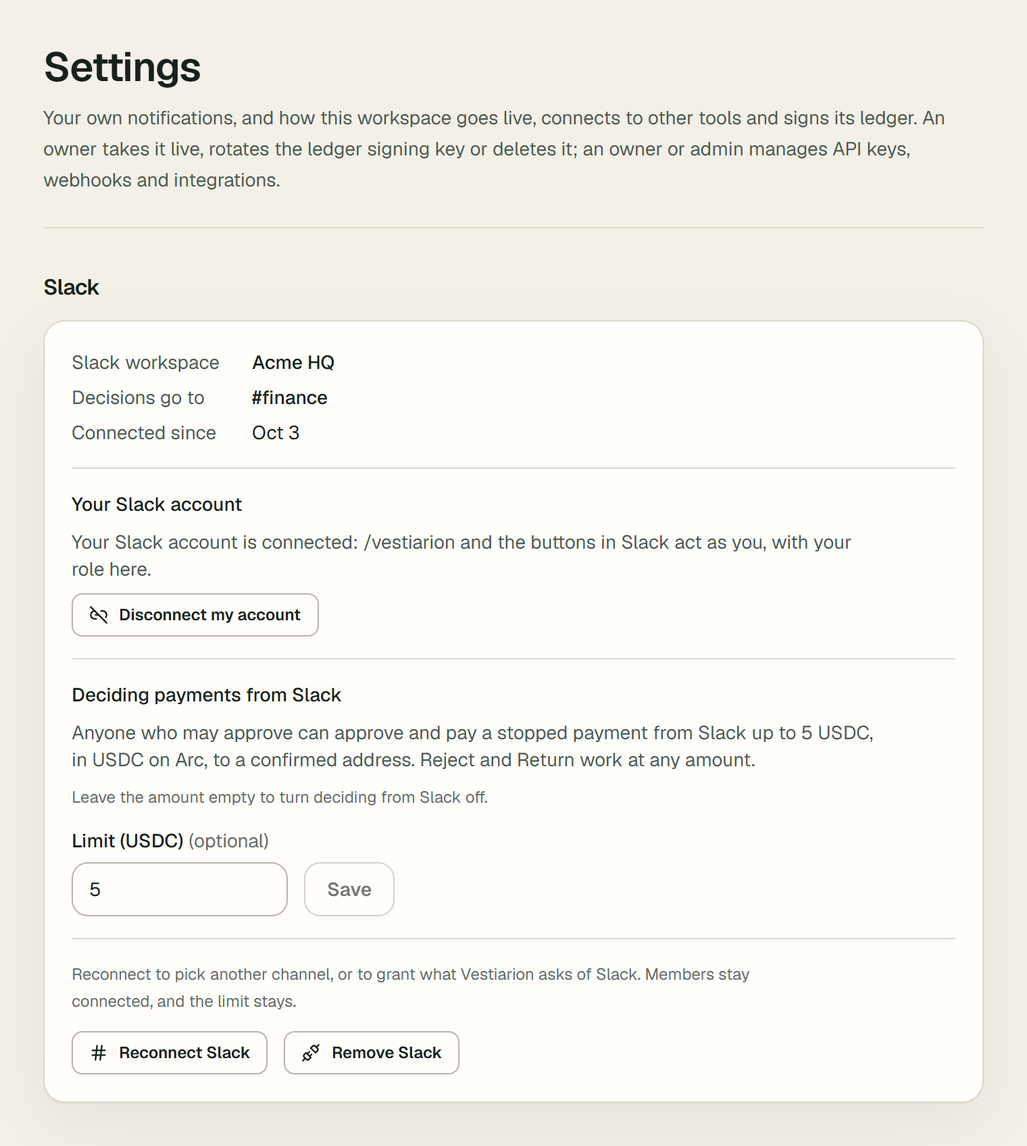
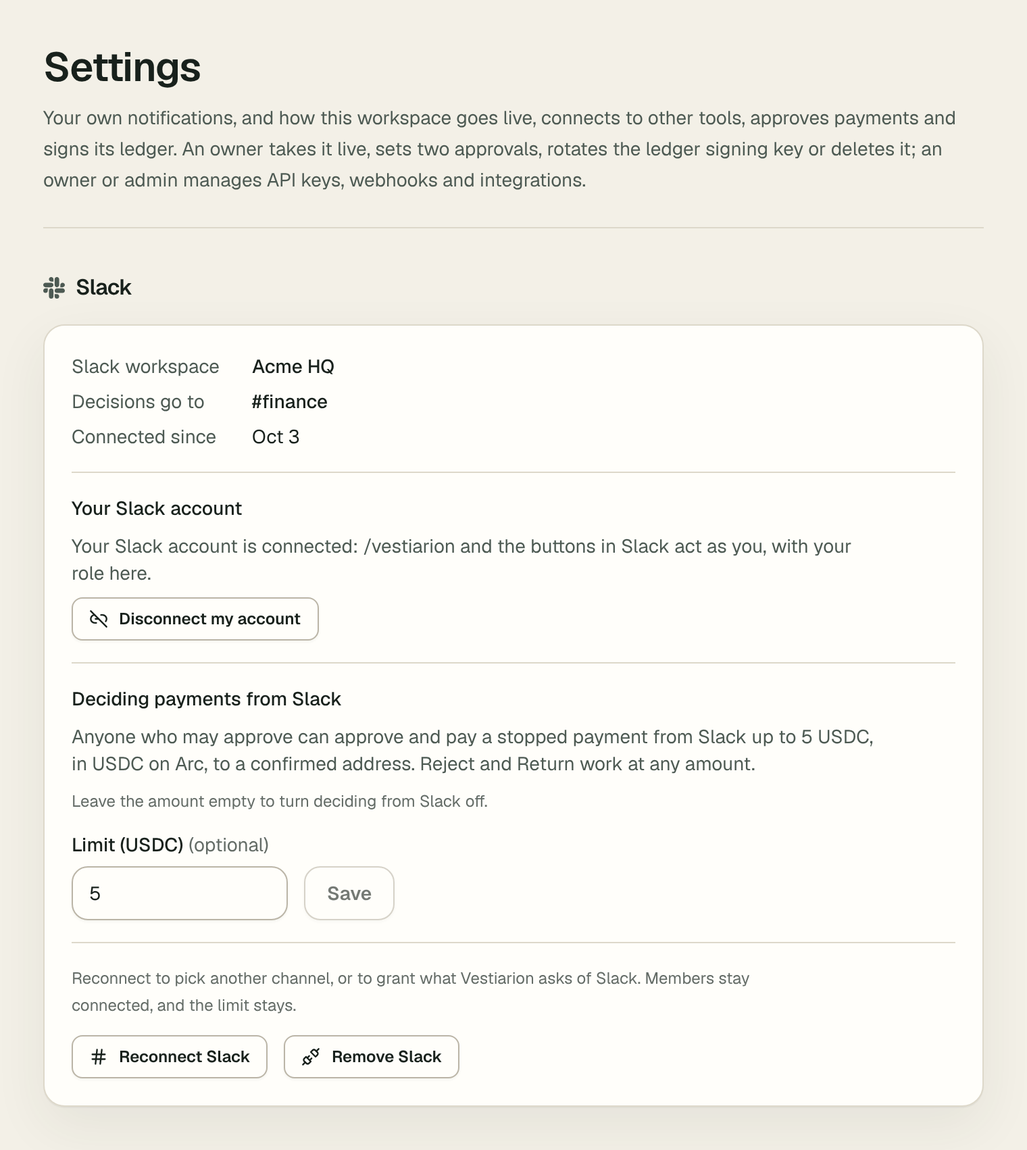
Show the marks of the services Vestiarion is built on and works with
A visitor recognises Arc, Slack or Telegram faster by its mark, and a
member finds the right card in Settings faster. Each mark stands only
for an integration the code has, and never for an endorsement
(docs/superpowers/specs/2026-10-07-brand-marks-design.md):

- BrandMark draws Arc's, Slack's, Telegram's and npm's marks in one
  ink (currentColor), hidden from assistive technology, beside the
  brand's written name. Arc's symbol is traced from its published PNG
  logo; the others are their published SVG paths. Gmail has no mark:
  the invoice inbox is reached by forwarding, not a Gmail integration.
  Circle shows as its name until its official mark is added.
- The landing page gets "Built on, and works with" under "Verifiable,
  not vouched for", each service linking to its evidence.
- Settings' Slack heading and Telegram card, and each network's name
  on /open, carry the mark.
- The Slack and Telegram guide screenshots are re-photographed.

Claude-Session: https://claude.ai/code/session_0113dEjh3HF2r3tSXjaQTtQy

diff --git a/src/components/vx/BrandMarks.tsx b/src/components/vx/BrandMarks.tsx
@@ -1,0 +1,51 @@
+/**
+ * The marks of the services Vestiarion is built on or connects to, drawn in one
+ * colour (`currentColor`) so they sit quietly in the page's ink, in either
+ * theme. A mark is decoration beside its name, never instead of it, so it is
+ * hidden from assistive technology; whatever renders it writes the name.
+ *
+ * Only services the code integrates with have a mark here
+ * (docs/superpowers/specs/2026-10-07-brand-marks-design.md):
+ * Arc, where payments settle; Slack and Telegram, where the agent asks and
+ * reports; npm, where the SDK is published. Circle routes the payments too, and
+ * shows as its name until its official mark is added. Each mark keeps its
+ * owner's shape unaltered; the Arc symbol is traced from Arc's published logo.
+ */
+
+export type Brand = "arc" | "slack" | "telegram" | "npm";
+
+const MARKS: Record<Brand, { name: string; viewBox: string; d: string; wordmark?: true }> = {
+  arc: {
+    name: "Arc",
+    viewBox: "0 0 95.3 100",
+    d: "M 42.9 0.2 C 42.6 0.5 42 0.8 41 0.9 C 40.4 1 39.8 1.2 39.5 1.3 C 39.3 1.4 38.7 1.7 38.2 1.8 C 37.7 2 37.1 2.3 36.9 2.5 C 36.7 2.6 36.3 2.8 35.9 3 C 35.6 3.1 35.1 3.3 34.9 3.4 C 34.7 3.6 34.4 3.8 34.1 3.9 C 33.9 4 33.5 4.3 33.2 4.6 C 32.9 4.8 32.5 5 32.5 5 C 32.4 5 32.2 5.1 32 5.3 C 31.8 5.5 31.5 5.8 31.2 6 C 30.1 6.7 27.4 9.1 26.5 10.1 C 26.2 10.5 25.5 11.3 24.9 12 C 24.4 12.6 23.7 13.4 23.4 13.7 C 23.2 14.1 22.7 14.7 22.4 15 C 22.1 15.4 21.9 15.7 21.9 15.8 C 21.9 15.9 21.1 17.1 20.4 17.8 C 20.3 18 20 18.4 19.9 18.7 C 19.8 18.9 19.6 19.3 19.4 19.5 C 19.3 19.7 19 20.1 18.9 20.3 C 18.8 20.6 18.6 21 18.3 21.3 C 17.7 22.2 17.2 23 17 23.7 C 16.9 24 16.6 24.5 16.5 24.7 C 16.3 24.9 16.1 25.3 16 25.7 C 15.8 26 15.6 26.5 15.5 26.7 C 15.3 26.9 15.1 27.3 15 27.7 C 14.9 28 14.6 28.4 14.5 28.7 C 14.3 28.9 14.1 29.4 14 29.8 C 13.9 30.2 13.6 30.7 13.5 31 C 13.3 31.3 13.1 31.7 13 32 C 12.9 32.3 12.7 32.8 12.5 33.1 C 12.3 33.4 12.1 33.9 12.1 34.2 C 12 34.5 11.8 35.1 11.5 35.6 C 11.3 36.1 11 36.9 10.9 37.4 C 10.8 37.9 10.5 38.6 10.4 38.8 C 10.2 39 10 39.6 9.9 40.1 C 9.8 40.7 9.6 41.3 9.4 41.6 C 9.3 41.8 9 42.6 8.9 43.1 C 8.8 43.7 8.6 44.5 8.4 44.8 C 8.2 45.1 8 45.8 7.9 46.4 C 7.8 46.9 7.6 47.6 7.4 48 C 7.3 48.4 7.1 49.2 6.9 49.9 C 6.8 50.6 6.6 51.4 6.5 51.7 C 6.3 51.9 6.1 52.8 6 53.6 C 5.9 54.3 5.6 55.4 5.4 55.9 C 5.3 56.4 5 57.4 4.9 58.2 C 4.8 58.9 4.6 59.9 4.5 60.2 C 4.3 60.6 4.1 61.8 4 62.8 C 3.8 63.8 3.6 65.1 3.4 65.6 C 3.3 66.1 3.1 66.7 3.1 66.9 C 3.1 67.7 2.8 70.3 2.5 71.5 C 2.2 72.7 2.1 73.6 1.9 75.9 C 1.8 76.8 1.6 78.1 1.5 78.9 C 1.4 79.8 1.2 81.3 1.1 82.2 C 0.8 87.7 0.5 89.8 0.2 90.6 C 0 90.9 0 91.9 0 95.5 L 0 100 8.9 100 L 17.8 100 17.8 99.6 C 17.8 95.8 18.3 87.9 18.6 85.6 C 18.7 84.7 18.9 83.4 18.9 82.8 C 19.2 79.5 19.3 78.3 19.5 77.4 C 19.6 76.9 19.8 75.6 19.9 74.6 C 20.2 72.3 20.3 71.4 20.6 70.4 C 20.7 70 20.9 69.2 20.9 68.6 C 21 67.9 21.2 66.7 21.5 65.8 C 21.7 64.8 21.9 63.6 22 63.1 C 22.1 62 22.4 61 22.7 60 C 22.8 59.7 22.9 59.1 23 58.6 C 23.1 58.1 23.3 57.1 23.6 56.3 C 23.8 55.6 24 54.6 24.1 54.2 C 24.2 53.8 24.4 53.3 24.5 52.9 C 24.7 52.6 24.9 51.8 25 51.1 C 25.1 50.5 25.4 49.6 25.6 49.1 C 25.8 48.7 26 48.1 26.1 47.8 C 26.1 47.4 26.3 46.7 26.6 46.2 C 26.8 45.6 27.1 44.9 27.1 44.5 C 27.2 44.1 27.4 43.6 27.6 43.3 C 27.7 43 27.9 42.5 28 42.1 C 28.1 41.7 28.3 41.2 28.5 40.9 C 28.7 40.5 28.9 40 29 39.7 C 29 39.3 29.2 38.9 29.4 38.5 C 29.7 38.2 29.9 37.6 30 37.2 C 30.1 36.8 30.4 36.3 30.5 36.1 C 30.7 35.9 30.9 35.5 31 35.2 C 31.2 34.5 32.3 32.3 32.5 32.2 C 32.6 32.1 32.8 31.7 33.1 31.3 C 33.9 29.5 34.4 28.7 34.7 28.4 C 34.9 28.2 35 27.9 35 27.8 C 35 27.7 35.3 27.3 35.6 27 C 35.9 26.7 36.1 26.3 36.1 26.2 C 36.1 26.1 36.5 25.6 37.1 24.9 C 37.6 24.3 38 23.8 38 23.7 C 38 23.6 38.8 22.8 39.7 21.9 C 41.2 20.4 42.1 19.7 43.2 19.1 C 43.5 18.9 43.9 18.7 44.1 18.5 C 45.5 17.5 50.2 17.6 51.3 18.6 C 51.4 18.7 51.8 18.9 52.1 19 C 52.3 19.1 52.7 19.3 52.9 19.5 C 53 19.7 53.4 20 53.7 20.1 C 54.3 20.4 56.4 22.4 57.1 23.4 C 57.4 23.8 57.9 24.4 58.2 24.8 C 58.5 25.1 59 25.7 59.2 26 C 59.6 26.7 60 27.3 60.4 27.8 C 60.7 28.2 61.1 28.9 61.9 30.4 C 62.1 30.7 62.4 31.2 62.6 31.4 C 62.7 31.6 62.9 32 63 32.2 C 63.1 32.5 63.3 32.9 63.5 33.1 C 63.6 33.3 63.8 33.7 64 34.1 C 64.1 34.4 64.3 34.9 64.5 35.2 C 64.7 35.4 64.9 35.9 65 36.3 C 65.1 36.6 65.3 37.1 65.4 37.4 C 65.6 37.6 65.8 38.1 65.9 38.5 C 66.1 38.9 66.3 39.4 66.5 39.6 C 66.6 39.9 66.8 40.4 66.9 40.9 C 67 41.3 67.3 42 67.5 42.3 C 67.7 42.7 67.9 43.3 67.9 43.5 C 68 43.7 68.2 44.2 68.4 44.6 C 68.6 45 68.8 45.7 68.9 46.2 C 69 46.7 69.3 47.4 69.4 47.7 C 69.6 48.1 69.8 48.7 69.9 49.1 C 70 49.6 70.2 50.4 70.4 51.1 C 70.7 51.7 71 52.8 71.1 53.4 C 71.2 53.9 71.4 54.7 71.5 55 C 71.6 55.3 71.9 56.1 72 56.8 C 72.1 57.5 72.3 58.4 72.5 58.7 C 72.6 59.1 72.8 60 72.9 60.7 C 73 61.4 73.3 62.5 73.5 63.2 C 73.7 63.9 73.9 64.9 73.9 65.4 C 74 66.3 74.4 68.2 74.7 69.1 C 75 70 75.1 72.1 74.8 72.4 C 74.5 72.7 74.2 72.7 73.6 72.4 C 73.3 72.2 72.7 72.1 72 72 C 70.2 71.8 69.4 71.6 68.7 71.4 C 68.3 71.3 67.6 71.1 67 71.1 C 65.4 71 63.6 70.8 62.7 70.6 C 60.1 70.1 55.2 69.8 47.6 69.7 C 40.7 69.6 41.1 69.4 40.9 71.9 C 40.9 72.5 40.7 73.6 40.6 74.3 C 40.3 75.6 40.1 76.7 39.9 79.8 C 39.8 80.8 39.7 81.9 39.6 82.4 C 39.3 83.7 39 86.3 39.1 86.6 C 39.2 87.2 39.7 87.2 44.6 86.7 C 49.3 86.2 52.9 86.2 57.1 86.6 C 57.7 86.7 58.9 86.8 59.8 86.9 C 62.8 87.1 64.3 87.3 64.9 87.4 C 66.2 87.8 67.1 88 68.2 88.1 C 68.8 88.2 69.7 88.4 70.1 88.5 C 70.6 88.7 71.4 88.9 72.1 89.1 C 72.7 89.2 73.5 89.4 73.9 89.6 C 74.2 89.7 74.9 89.9 75.3 90 C 75.7 90.1 76.4 90.3 76.9 90.5 C 77.3 90.7 78 90.9 78.3 91 C 78.7 91.1 79.3 91.3 79.8 91.6 C 80.3 91.8 80.8 92 80.9 92 C 81.2 92 82 92.3 82.4 92.7 C 82.6 92.8 82.9 93 83.2 93.1 C 83.4 93.1 84 93.3 84.5 93.6 C 84.9 93.8 85.4 94 85.5 94 C 85.6 94 86 94.2 86.3 94.4 C 86.6 94.6 87.1 94.9 87.4 95 C 87.8 95.2 88.2 95.4 88.4 95.6 C 88.7 95.7 89.1 96 89.5 96.2 C 89.9 96.4 90.6 96.8 91.1 97.2 C 91.6 97.6 92.2 97.9 92.4 98 C 92.6 98.1 93.2 98.5 93.7 98.9 C 94.7 99.7 94.9 99.7 95.2 99.1 C 95.4 98.7 95.4 98.4 95.2 92.9 C 94.9 86.8 94.8 85.2 94.3 82 C 94.2 81.3 94.1 80 94 79.1 C 93.9 78.2 93.7 76.6 93.5 75.7 C 93.4 74.8 93.2 73.5 93.1 72.8 C 93 71.3 92.7 69.6 92.4 68.2 C 92.3 67.7 92.1 66.4 91.9 65.3 C 91.8 64.2 91.6 63.3 91.5 63 C 91.4 62.7 91.2 61.9 91.1 61.3 C 91 59.9 90.7 58.6 90.4 58 C 90.3 57.8 90.2 57 90.1 56.3 C 90 55.6 89.7 54.5 89.5 53.8 C 89.3 53.2 89.1 52.3 89 51.8 C 89 51.3 88.8 50.6 88.6 50.3 C 88.4 49.9 88.2 49.2 88.1 48.7 C 88 47.5 87.9 47.3 87.5 46.5 C 87.3 46.1 87.1 45.4 87.1 45 C 87 44.5 86.8 43.8 86.6 43.4 C 86.4 42.9 86.2 42.1 86.1 41.7 C 85.9 41.2 85.7 40.6 85.6 40.3 C 85.4 39.9 85.2 39.4 85.1 38.9 C 85 38.5 84.8 37.9 84.6 37.4 C 84.3 37 84.1 36.4 84 35.9 C 83.9 35.5 83.7 34.9 83.5 34.5 C 83.3 34.1 83.1 33.6 83 33.3 C 82.9 33 82.7 32.6 82.5 32.4 C 82.4 32.1 82.2 31.6 82.1 31.1 C 82 30.7 81.7 30.2 81.6 29.9 C 81.4 29.7 81.2 29.3 81 28.9 C 80.9 28.6 80.7 28.1 80.5 27.9 C 80.4 27.7 80.2 27.3 80 26.9 C 79.9 26.6 79.7 26.1 79.5 25.9 C 79.4 25.7 79.2 25.3 79 24.9 C 78.9 24.6 78.7 24.1 78.6 23.9 C 78.4 23.7 78.2 23.2 78 22.9 C 77.9 22.5 77.6 22.1 77.5 22 C 77.4 21.9 77.2 21.6 77.1 21.3 C 77 21 76.7 20.5 76.4 20.2 C 76.2 19.9 76 19.5 76 19.5 C 76 19.4 75.8 19.1 75.6 18.9 C 75.4 18.6 75.2 18.2 75 17.9 C 74.8 17.6 74.6 17.1 74.4 16.9 C 73.8 16.2 73.3 15.5 72.6 14.6 C 71.3 12.6 65.4 6.5 64.3 6 C 64 5.8 63.6 5.5 63.3 5.3 C 63.1 5.1 62.8 4.9 62.8 4.9 C 62.7 4.9 62.4 4.7 62.1 4.4 C 61.9 4.2 61.5 4 61.4 3.9 C 61.2 3.9 60.8 3.7 60.5 3.4 C 60.1 3.2 59.8 3 59.7 3 C 59.6 3 59.3 2.8 58.9 2.6 C 58.6 2.3 58 2.1 57.7 2 C 57.3 1.9 56.8 1.7 56.5 1.6 C 56.1 1.4 55.4 1.1 54.7 1 C 53.4 0.7 53.2 0.7 52.8 0.3 C 52.6 0 52.5 -0 47.8 -0 C 43.6 -0 43 0 42.9 0.2",
+  },
+  slack: {
+    name: "Slack",
+    viewBox: "73.6 73.6 122.8 122.8",
+    d: "M99.4,151.2c0,7.1-5.8,12.9-12.9,12.9s-12.9-5.8-12.9-12.9c0-7.1,5.8-12.9,12.9-12.9h12.9V151.2z M105.9,151.2c0-7.1,5.8-12.9,12.9-12.9s12.9,5.8,12.9,12.9v32.3c0,7.1-5.8,12.9-12.9,12.9s-12.9-5.8-12.9-12.9 C105.9,183.5,105.9,151.2,105.9,151.2z M118.8,99.4c-7.1,0-12.9-5.8-12.9-12.9s5.8-12.9,12.9-12.9s12.9,5.8,12.9,12.9v12.9H118.8z M118.8,105.9c7.1,0,12.9,5.8,12.9,12.9s-5.8,12.9-12.9,12.9H86.5c-7.1,0-12.9-5.8-12.9-12.9s5.8-12.9,12.9-12.9 C86.5,105.9,118.8,105.9,118.8,105.9z M170.6,118.8c0-7.1,5.8-12.9,12.9-12.9c7.1,0,12.9,5.8,12.9,12.9s-5.8,12.9-12.9,12.9h-12.9V118.8z M164.1,118.8c0,7.1-5.8,12.9-12.9,12.9c-7.1,0-12.9-5.8-12.9-12.9V86.5c0-7.1,5.8-12.9,12.9-12.9 c7.1,0,12.9,5.8,12.9,12.9V118.8z M151.2,170.6c7.1,0,12.9,5.8,12.9,12.9c0,7.1-5.8,12.9-12.9,12.9c-7.1,0-12.9-5.8-12.9-12.9v-12.9H151.2z M151.2,164.1c-7.1,0-12.9-5.8-12.9-12.9c0-7.1,5.8-12.9,12.9-12.9h32.3c7.1,0,12.9,5.8,12.9,12.9 c0,7.1-5.8,12.9-12.9,12.9H151.2z",
+  },
+  telegram: {
+    name: "Telegram",
+    viewBox: "0 0 1000 1000",
+    d: "M0 500a500 500 0 1 0 1000 0a500 500 0 1 0-1000 0zM226.3,494.7 C372.1,431.2 469.3,389.4 517.9,369.1 C656.8,311.4 685.6,301.3 704.4,301 C708.6,300.9 717.8,302 723.8,306.8 C728.9,310.9 730.3,316.5 730.9,320.4 C731.6,324.2 732.4,333.1 731.8,340 C724.2,419.1 691.7,611 675.1,699.5 C668.1,737 654.3,749.5 640.9,750.8 C611.9,753.4 589.9,731.6 561.7,713.2 C517.7,684.3 492.9,666.3 450.2,638.2 C400.8,605.7 432.8,587.8 460.9,558.6 C468.3,550.9 596.2,434.6 598.7,424 C599,422.7 599.3,417.8 596.4,415.2 C593.4,412.6 589.1,413.5 586,414.2 C581.6,415.2 511.3,461.6 375.1,553.6 C355.2,567.3 337.1,573.9 320.9,573.6 C303,573.2 268.7,563.5 243.2,555.2 C211.9,545 187,539.6 189.1,522.3 C190.3,513.3 202.7,504.1 226.3,494.7 Z",
+  },
+  npm: {
+    name: "npm",
+    viewBox: "0 0 18 7",
+    wordmark: true,
+    d: "M0,0h18v6H9v1H5V6H0V0z M1,5h2V2h1v3h1V1H1V5z M6,1v5h2V5h2V1H6z M8,2h1v2H8V2z M11,1v4h2V2h1v3h1V2h1v3h1V1H11z",
+  },
+};
+
+/** True when the mark spells the name itself (npm's), so the name beside it is for screen readers only. */
+export const isWordmark = (brand: Brand) => MARKS[brand].wordmark === true;
+
+export function BrandMark({ brand, className = "h-4 w-auto" }: { brand: Brand; className?: string }) {
+  const mark = MARKS[brand];
+  return (
+    <svg aria-hidden focusable="false" viewBox={mark.viewBox} fill="currentColor" className={className} data-brand={brand}>
+      <path fillRule="evenodd" d={mark.d} />
+    </svg>
+  );
+}

diff --git a/tests/brand-marks.test.tsx b/tests/brand-marks.test.tsx
@@ -1,0 +1,84 @@
+import { readdirSync, readFileSync } from "node:fs";
+import path from "node:path";
+import { renderToStaticMarkup } from "react-dom/server";
+import { describe, expect, it } from "vitest";
+import { BuiltWith } from "@/components/landing/BuiltWith";
+import { BrandMark, isWordmark, type Brand } from "@/components/vx/BrandMarks";
+
+/**
+ * The marks of the services Vestiarion integrates with
+ * (docs/superpowers/specs/2026-10-07-brand-marks-design.md): only those the code
+ * integrates with, in one colour, beside their names, and never worded as an
+ * endorsement.
+ */
+
+const BRANDS: Brand[] = ["arc", "slack", "telegram", "npm"];
+
+const text = (markup: string) =>
+  markup
+    .replace(/<[^>]+>/g, " ")
+    .replace(/&#x27;/g, "'")
+    .replace(/&amp;/g, "&")
+    .replace(/\s+/g, " ")
+    .trim();
+
+describe("a brand mark", () => {
+  it("is drawn in the page's ink, hidden from assistive technology", () => {
+    for (const brand of BRANDS) {
+      const markup = renderToStaticMarkup(<BrandMark brand={brand} />);
+      expect(markup).toMatch(/^<svg aria-hidden="true" focusable="false" viewBox="[\d. ]+" fill="currentColor"/);
+      expect(markup).toContain(`data-brand="${brand}"`);
+      // One colour: no brand colour, gradient or embedded image travels with a mark.
+      expect(markup).not.toMatch(/#[0-9a-f]{3,6}\b|gradient|<image|<style|url\(/i);
+    }
+  });
+
+  it("exists only for services the code integrates with: no Gmail, whose inbox is reached by forwarding", () => {
+    const source = readFileSync(path.join(process.cwd(), "src/components/vx/BrandMarks.tsx"), "utf8");
+    const declared = [...source.matchAll(/^ {2}(\w+): \{$/gm)].map((match) => match[1]);
+    expect(declared).toEqual(BRANDS);
+    expect(source).not.toMatch(/gmail|google/i);
+  });
+
+  it("is used nowhere without its name beside it", () => {
+    // Every file that draws a mark also writes the brand's name.
+    const NAMES: Record<Brand, string> = { arc: "Arc", slack: "Slack", telegram: "Telegram", npm: "npm" };
+    const walk = (dir: string): string[] =>
+      readdirSync(dir, { withFileTypes: true }).flatMap((entry) => (entry.isDirectory() ? walk(path.join(dir, entry.name)) : [path.join(dir, entry.name)]));
+    const users = walk(path.join(process.cwd(), "src")).filter((file) => file.endsWith(".tsx") && !file.endsWith("BrandMarks.tsx"));
+    for (const file of users) {
+      const source = readFileSync(file, "utf8");
+      for (const match of source.matchAll(/<BrandMark brand="(\w+)"/g)) expect(source, file).toContain(NAMES[match[1] as Brand]);
+    }
+  });
+
+  it("knows npm's mark spells its name", () => {
+    expect(BRANDS.filter(isWordmark)).toEqual(["npm"]);
+  });
+});
+
+describe("the landing page's built on and works with", () => {
+  const markup = renderToStaticMarkup(<BuiltWith />);
+
+  it("names each service, with its mark where it has one, and links to the evidence", () => {
+    const page = text(markup);
+    for (const name of ["Arc", "Circle", "Slack", "Telegram", "npm"]) expect(page).toContain(name);
+    const hrefs = [...markup.matchAll(/<a [^>]*href="([^"]+)"/g)].map((match) => match[1]);
+    expect(hrefs).toEqual([
+      "/open",
+      "https://github.com/duongnq2798/vestiarion/blob/main/src/lib/circle/liveProvider.ts",
+      "/docs/guides/slack",
+      "/docs/guides/telegram",
+      "/docs/get-started/sdk",
+    ]);
+    expect([...markup.matchAll(/data-brand="(\w+)"/g)].map((match) => match[1])).toEqual(["arc", "slack", "telegram", "npm"]);
+    // npm's mark is its name, so the written name is for screen readers.
+    expect(markup).toContain('<span class="sr-only">npm</span>');
+  });
+
+  it("says built on and works with, never that a service vouches for Vestiarion", () => {
+    const page = text(markup).toLowerCase();
+    expect(page).toContain("built on, and works with");
+    for (const claim of ["partner", "trusted by", "powered by", "endorsed", "certified", "gmail"]) expect(page).not.toContain(claim);
+  });
+});

diff --git a/src/components/landing/BuiltWith.tsx b/src/components/landing/BuiltWith.tsx
@@ -1,0 +1,58 @@
+import Link from "next/link";
+import { BrandMark, isWordmark, type Brand } from "@/components/vx/BrandMarks";
+
+const REPOSITORY = "https://github.com/duongnq2798/vestiarion";
+
+/**
+ * What Vestiarion is built on and works with, each with a link to the evidence
+ * rather than a bare logo (docs/superpowers/specs/2026-10-07-brand-marks-design.md):
+ * the services the code integrates with, in one quiet ink, each named in words.
+ * "Built on" and "works with", never "partners" or "trusted by": none of them
+ * vouches for Vestiarion.
+ */
+const SERVICES: ReadonlyArray<{ brand: Brand | null; name: string; role: string; body: string; href: string; check: string }> = [
+  { brand: "arc", name: "Arc", role: "Built on", body: "Payments settle on Arc, and each of ours links to its explorer.", href: "/open", check: "See the payments" },
+  {
+    brand: null,
+    name: "Circle",
+    role: "Payments through",
+    body: "Circle's wallets carry the live USDC payment path.",
+    href: `${REPOSITORY}/blob/main/src/lib/circle/liveProvider.ts`,
+    check: "Read the code",
+  },
+  { brand: "slack", name: "Slack", role: "Works with", body: "The agent's decisions in a channel your team picks.", href: "/docs/guides/slack", check: "Read the guide" },
+  { brand: "telegram", name: "Telegram", role: "Works with", body: "The agent's decisions in your own chat. The bot never pays.", href: "/docs/guides/telegram", check: "Read the guide" },
+  { brand: "npm", name: "npm", role: "SDK on", body: "@vestiarion/sdk, a typed client for every endpoint.", href: "/docs/get-started/sdk", check: "Read the docs" },
+];
+
+export function BuiltWith() {
+  return (
+    <section aria-labelledby="built-with-title" className="border-b border-line bg-surface/80">
+      <div className="mx-auto max-w-6xl px-4 sm:px-6">
+        <h2 id="built-with-title" className="border-b border-line py-3 font-mono text-xs uppercase tracking-[0.1em] text-ink-3">
+          Built on, and works with
+        </h2>
+        <ul className="grid grid-cols-2 sm:grid-cols-3 lg:grid-cols-5">
+          {SERVICES.map((service) => {
+            const external = service.href.startsWith("https://");
+            return (
+              <li key={service.name} className="min-w-0 border-line py-4 pr-4 lg:border-l lg:pl-5 lg:first:border-l-0 lg:first:pl-0">
+                <Link href={service.href} className="group block" {...(external ? { target: "_blank", rel: "noreferrer" } : {})}>
+                  <p className="font-mono text-[0.6875rem] uppercase tracking-[0.1em] text-ink-3">{service.role}</p>
+                  <p className="mt-2 flex h-5 items-center gap-2 text-[0.9375rem] font-semibold text-ink">
+                    {service.brand && <BrandMark brand={service.brand} className="h-4 w-auto text-ink-2 transition-colors duration-150 ease-standard group-hover:text-ink" />}
+                    <span className={service.brand && isWordmark(service.brand) ? "sr-only" : undefined}>{service.name}</span>
+                  </p>
+                  <p className="mt-1.5 text-xs leading-relaxed text-ink-2">{service.body}</p>
+                  <span className="mt-2 inline-block font-mono text-xs font-semibold text-agent group-hover:underline">
+                    {service.check} {external ? "↗" : "→"}
+                  </span>
+                </Link>
+              </li>
+            );
+          })}
+        </ul>
+      </div>
+    </section>
+  );
+}

diff --git a/src/components/TelegramCard.tsx b/src/components/TelegramCard.tsx
@@ -7,6 +7,7 @@ import { Button } from "@/components/ui/Button";
 import { Card } from "@/components/ui/Card";
 import { SubmitButton } from "@/components/ui/SubmitButton";
 import { useActionForm } from "@/components/ui/useActionForm";
+import { BrandMark } from "@/components/vx/BrandMarks";
 
 const INITIAL: TelegramActionResult = { ok: false, message: "" };
 
@@ -40,7 +41,10 @@ export function TelegramCard({ orgSlug, link }: { orgSlug: string; link: { usern
         <form {...leave.formProps} className="flex flex-wrap items-center justify-between gap-3">
           <input type="hidden" name="orgSlug" value={orgSlug} />
           <div className="min-w-0 max-w-prose space-y-1">
-            <p className="text-sm font-semibold text-ink">Telegram</p>
+            <p className="inline-flex items-center gap-2 text-sm font-semibold text-ink">
+              <BrandMark brand="telegram" className="size-4 text-ink-2" />
+              Telegram
+            </p>
             <p className="text-sm text-ink-2">
               Connected{link.username ? ` as @${link.username}` : ""} since {connectedOn(link.linkedAt)}. The agent&apos;s decisions in this
               workspace are sent there, and invoices you send the bot can be added as payables.
@@ -61,7 +65,10 @@ export function TelegramCard({ orgSlug, link }: { orgSlug: string; link: { usern
       <form {...connect.formProps} className="flex flex-col gap-3">
         <input type="hidden" name="orgSlug" value={orgSlug} />
         <div className="max-w-prose space-y-1">
-          <p className="text-sm font-semibold text-ink">Telegram</p>
+          <p className="inline-flex items-center gap-2 text-sm font-semibold text-ink">
+            <BrandMark brand="telegram" className="size-4 text-ink-2" />
+            Telegram
+          </p>
           <p className="text-sm text-ink-2">
             Get the agent&apos;s decisions in your own Telegram chat, ask what is waiting or safe to spend, and send it invoices to add. The bot
             never approves or pays: that stays here.

diff --git a/src/app/open/page.tsx b/src/app/open/page.tsx
@@ -7,6 +7,7 @@ import { Callout } from "@/components/ui/Callout";
 import { Disclosure } from "@/components/ui/Disclosure";
 import { EmptyState } from "@/components/ui/EmptyState";
 import { Eyebrow } from "@/components/ui/Eyebrow";
+import { BrandMark } from "@/components/vx/BrandMarks";
 import { SiteFooter, SiteHeader } from "@/components/vx/SiteChrome";
 import { utcMinute } from "@/lib/copy";
 import { ARC_MAINNET, ARC_TESTNET, type NetworkProfile } from "@/lib/network";
@@ -217,14 +218,18 @@ export default async function OpenPage({ searchParams }: OpenPageProps) {
   );
 }
 
-/** A network's heading, with whether its payments move real money. */
+/** A network's heading, with Arc's mark and whether its payments move real money. */
 function NetworkHead({ id, label, about, money, compact = false }: { id: string; label: string; about: string; money: string; compact?: boolean }) {
   return (
     <div className="flex flex-wrap items-start justify-between gap-3">
       <div>
-        <h2 id={id} className={compact ? "text-xl font-semibold tracking-tight text-ink" : "text-3xl font-semibold tracking-[-0.03em] text-ink"}>
-          {label}
-        </h2>
+        <div className="flex items-center gap-2.5">
+          {/* Both networks are Arc's; the mark sits beside the name, which says which one. */}
+          <BrandMark brand="arc" className={compact ? "h-4 w-auto text-ink-2" : "h-6 w-auto text-ink-2"} />
+          <h2 id={id} className={compact ? "text-xl font-semibold tracking-tight text-ink" : "text-3xl font-semibold tracking-[-0.03em] text-ink"}>
+            {label}
+          </h2>
+        </div>
         <p className="mt-1.5 text-sm leading-6 text-ink-2">{about}</p>
       </div>
       <Badge tone={id === "mainnet" ? "proof" : "neutral"} size="sm" className="font-mono uppercase tracking-[0.08em]">

diff --git a/src/components/SlackPanel.tsx b/src/components/SlackPanel.tsx
@@ -13,6 +13,7 @@ import { Input } from "@/components/ui/Input";
 import { SectionHeader } from "@/components/ui/SectionHeader";
 import { SubmitButton } from "@/components/ui/SubmitButton";
 import { useActionForm } from "@/components/ui/useActionForm";
+import { BrandMark } from "@/components/vx/BrandMarks";
 import type { SlackPanelView } from "@/lib/slack/panel";
 
 const INITIAL: SlackActionResult = { ok: false, message: "" };
@@ -118,7 +119,15 @@ export default function SlackPanel({
   const told = notice ? SLACK_NOTICES[notice] : undefined;
   return (
     <section aria-labelledby="slack-title" id="slack">
-      <SectionHeader id="slack-title" title="Slack" />
+      <SectionHeader
+        id="slack-title"
+        title={
+          <span className="inline-flex items-center gap-2">
+            <BrandMark brand="slack" className="size-4 text-ink-2" />
+            Slack
+          </span>
+        }
+      />
       <Card className="space-y-4 p-5">
         {told && (
           <p role="status" className={told.tone === "success" ? "text-sm text-ink" : "text-sm text-refused"}>

diff --git a/src/app/page.tsx b/src/app/page.tsx
@@ -1,5 +1,6 @@
 import type { Metadata } from "next";
 import { Claims } from "@/components/landing/Claims";
+import { BuiltWith } from "@/components/landing/BuiltWith";
 import { Credentials } from "@/components/landing/Credentials";
 import { FinalCta } from "@/components/landing/FinalCta";
 import { Hero } from "@/components/landing/Hero";
@@ -80,6 +81,7 @@ export default async function LandingPage() {
       <main id="main">
         <Hero provenance={provenance} head={head} hostedAvailable={hostedAvailable} />
         <Credentials screeningMode={currentScreeningMode} />
+        <BuiltWith />
         <LiveProof metrics={metrics} />
         <HowItWorks />
         <Claims />

diff --git a/tests/open-page.test.tsx b/tests/open-page.test.tsx
@@ -418,6 +418,13 @@ describe("the /open page, second round (open redesign §10)", () => {
   });
 });
 
+describe("the /open page's network headings (brand marks M2)", () => {
+  it("puts Arc's mark beside each network's name", async () => {
+    const markup = await render();
+    for (const id of ["testnet", "mainnet"]) expect(markup).toMatch(new RegExp(`data-brand="arc"[^>]*>.*?</svg><h2 id="${id}"`));
+  });
+});
+
 describe("the privacy page", () => {
   it("says the open numbers publish counts and totals only, and never a customer's payment", async () => {
     const { default: PrivacyPage } = await import("@/app/privacy/page");

diff --git a/tests/telegram-card.test.tsx b/tests/telegram-card.test.tsx
@@ -47,4 +47,11 @@ describe("TelegramCard", () => {
     expect(markup).toContain("Disconnect");
     expect(markup).not.toContain("Connect Telegram");
   });
+
+  it("shows Telegram's mark beside its name, connected or not (brand marks M2)", () => {
+    for (const link of [null, { username: "linh_ops", linkedAt: "2026-10-03T09:00:00Z" }]) {
+      const markup = renderToStaticMarkup(<TelegramCard orgSlug="acme" link={link} />);
+      expect(markup).toMatch(/<svg aria-hidden="true"[^>]*data-brand="telegram"[^>]*>.*?<\/svg>Telegram<\/p>/);
+    }
+  });
 });

diff --git a/tests/slack-panel.test.tsx b/tests/slack-panel.test.tsx
@@ -80,4 +80,9 @@ describe("SlackPanel", () => {
       "already connected to another Vestiarion workspace"
     );
   });
+
+  it("heads the section with Slack's mark beside its name (brand marks M2)", () => {
+    const markup = renderToStaticMarkup(<SlackPanel orgSlug="acme" view={{ installed: false }} canManage canAdminister={false} notice={null} />);
+    expect(markup).toMatch(/<h2 id="slack-title"[^>]*><span[^>]*><svg aria-hidden="true"[^>]*data-brand="slack"[^>]*>.*<\/svg>Slack<\/span><\/h2>/);
+  });
 });

diff --git a/docs/superpowers/specs/2026-10-07-brand-marks-design.md b/docs/superpowers/specs/2026-10-07-brand-marks-design.md
@@ -1,0 +1,38 @@
+# Brand marks: the services Vestiarion is built on and works with
+
+Date: 2026-10-07. Status: shipped with this branch.
+
+## 1. Why
+
+A visitor recognises Arc, Slack or Telegram faster by its mark than by its name, and a member connecting Slack or
+Telegram in Settings finds the right card faster. The marks must not cost the product what it sells: every claim on the
+public pages is checkable, so a mark may only stand for an integration the code has, and never for an endorsement.
+
+## 2. Rulings
+
+- **M1 — only real integrations.** Arc (payments settle there), Slack and Telegram (the agent asks and reports there),
+  and npm (the SDK is published there). Circle routes the payments too and shows as its name until its official mark is
+  added. **Gmail has no mark:** the invoice inbox is reached by forwarding from any mailbox (Resend inbound), and there
+  is no Gmail integration to stand for.
+- **M2 — in words, beside a name.** "Built on", "Payments through", "Works with", "SDK on"; never "partners", "trusted
+  by", "powered by". A mark is decoration (`aria-hidden`) beside its written name, never instead of it. npm's mark spells
+  its name, so there the written name is for screen readers only.
+- **M3 — one ink.** Each mark is drawn with `currentColor` from one inline path (`src/components/vx/BrandMarks.tsx`):
+  no brand colour, gradient or image, so it sits quietly in either theme. The shape is the owner's, unaltered. Arc's
+  symbol is traced (potrace) from the PNG logo Arc publishes, since no SVG was at hand; Slack's, Telegram's and npm's
+  paths are their published SVGs'. Official SVGs for Arc and Circle replace these when they arrive.
+- **M4 — each with its evidence.** On the landing page every service links to what proves it: `/open` for Arc, the live
+  provider's code for Circle, the guides for Slack and Telegram, the SDK page for npm.
+
+## 3. Where
+
+- The landing page: "Built on, and works with", right under "Verifiable, not vouched for".
+- Settings: the Slack section's heading and the Telegram card.
+- `/open`: Arc's mark beside each network's name.
+- The Slack and Telegram guides' screenshots, re-photographed (`npm run docs:screenshots -- slack-settings telegram-connect`).
+
+## 4. Tests
+
+`tests/brand-marks.test.tsx`: one colour and hidden from assistive technology; exactly the four brands, no Gmail; no file
+draws a mark without the brand's name; the landing strip's names, links, and wording. The Slack panel, Telegram card
+and `/open` tests check the mark beside each name.
